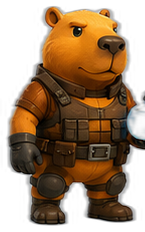
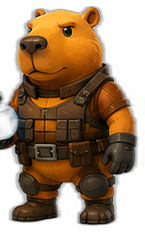
fix(capyrocket): herói olha para a direção do tiro + mina perdoadora
Tiro 'saindo de trás': a arte extraída da folha olhava para a ESQUERDA
enquanto o herói atira para a direita. Espelhei os 4 PNGs para olharem à
direita (sentido do tiro) — agora a bala sai da FRENTE do personagem,
coerente com a geometria já existente.

Dano ao pular minas: provei por teste de integração que o código já limpa
a mina no apex; o dano vinha dos frames de decolagem/raspão. Agora a mina
só machuca pelo NÚCLEO (hazardHitbox: recuo lateral + só a metade de baixo),
então um pulinho curto (22px) já limpa e passar de lado não doa. [SPEC COL-5]

34 testes (novo COL-5), build OK.

diff --git a/src/games/capyrocket/engine/geometry.ts b/src/games/capyrocket/engine/geometry.ts
@@ -28,6 +28,12 @@ export const HIT_INSET_TOP = 14; // recuo no topo (cabeça/orelhas não contam)
 export const MUZZLE_FORWARD = PLAYER_W / 2 + 6;
 export const MUZZLE_HEIGHT_FRAC = 0.42; // fração da ALTURA do sprite, a partir do topo
 
+// Mina: o NÚCLEO que machuca é menor que o desenho — recuo lateral + só a parte
+// de baixo conta, para que um pulinho já limpe e raspar de lado não doa.
+// [SPEC: COL-5]
+export const HAZARD_INSET_X = 8;
+export const HAZARD_CORE_TOP_FRAC = 0.45;
+
 /** Direção horizontal para a qual o herói aponta (1 = direita, -1 = esquerda). */
 export function facingDir(p: Player): 1 | -1 {
   return p.facingX === -1 ? -1 : 1;
@@ -52,6 +58,12 @@ export function playerPickupBox(p: Player): Box {
 export function spriteTopY(p: Player): number {
   const feetY = p.y + p.h;
   return feetY - PLAYER_H * SPRITE_SCALE;
+}
+
+/** Núcleo de DANO de uma mina (inset do desenho; só a parte de baixo machuca). */
+export function hazardHitbox(h: Box): Box {
+  const cut = h.h * HAZARD_CORE_TOP_FRAC;
+  return { x: h.x + HAZARD_INSET_X, y: h.y + cut, w: h.w - HAZARD_INSET_X * 2, h: h.h - cut };
 }
 
 /** Ponta do cano (origem das balas e do flash) em coordenadas de MUNDO. */

diff --git a/src/games/capyrocket/__tests__/specs.test.ts b/src/games/capyrocket/__tests__/specs.test.ts
@@ -6,6 +6,7 @@ import {
   HIT_INSET_TOP,
   HIT_INSET_X,
   MUZZLE_FORWARD,
+  hazardHitbox,
   muzzlePoint,
   playerHitbox,
   playerPickupBox,
@@ -63,6 +64,20 @@ describe("COL — colisão", () => {
     const hb = playerHitbox(p);
     expect(hb.y + hb.h).toBeLessThan(mine.y); // base do herói acima da mina
     expect(aabbOverlap(hb, mine)).toBe(false);
+  });
+
+  it("COL-5: um pulinho curto já limpa a mina (núcleo perdoador)", () => {
+    const p = createInitialState().player;
+    const mine = makeHazard(p.x); // mesmo x
+    // No chão, em cima da mina → toca o núcleo (dano).
+    expect(aabbOverlap(playerHitbox(p), hazardHitbox(mine))).toBe(true);
+    // Pulinho curto de 22px → já limpa o núcleo (sem dano).
+    p.y -= 22;
+    expect(aabbOverlap(playerHitbox(p), hazardHitbox(mine))).toBe(false);
+    // E o núcleo é menor que o desenho da mina.
+    const core = hazardHitbox(mine);
+    expect(core.w).toBeLessThan(mine.w);
+    expect(core.y).toBeGreaterThan(mine.y);
   });
 
   it("COL-4: caixa de coleta é maior que a hitbox de dano", () => {

diff --git a/src/games/capyrocket/engine/Game.ts b/src/games/capyrocket/engine/Game.ts
@@ -3,7 +3,7 @@ import { capiSfx } from "../vendor/sfx";
 import { updateBoss } from "./boss";
 import { updateBullets } from "./bullets";
 import { aabbOverlap } from "./collision";
-import { playerHitbox, playerPickupBox } from "./geometry";
+import { hazardHitbox, playerHitbox, playerPickupBox } from "./geometry";
 import {
   BOSS_WAVE,
   CRATE_MIN_GAP,
@@ -393,7 +393,8 @@ export class Game {
       }
       if (!hit) {
         for (const h of s.hazards) {
-          if (aabbOverlap(hurtBox, h)) { hit = true; break; }
+          // Núcleo da mina (menor que o desenho) → pulinho já limpa, raspão não doa.
+          if (aabbOverlap(hurtBox, hazardHitbox(h))) { hit = true; break; }
         }
       }
       if (!hit && s.boss && aabbOverlap(hurtBox, s.boss)) hit = true;

diff --git a/src/games/capyrocket/SPEC.md b/src/games/capyrocket/SPEC.md
@@ -31,6 +31,9 @@ Geometria única: `engine/geometry.ts` é a **fonte de verdade** de hitbox,
   dano não sobrepõe a mina mesmo com sobreposição horizontal.
 - **COL-4 — Coleta é generosa.** Estrelas/caixas/reféns usam `playerPickupBox`
   (corpo cheio), maior que a hitbox de dano.
+- **COL-5 — Mina perdoadora.** A mina só machuca pelo NÚCLEO (`hazardHitbox`):
+  recuado nas laterais e só na parte de baixo. Um pulinho curto já limpa, e
+  passar de lado não causa dano — só toca quem realmente está em cima dela.
 
 ## Movimento (MOV)
 
